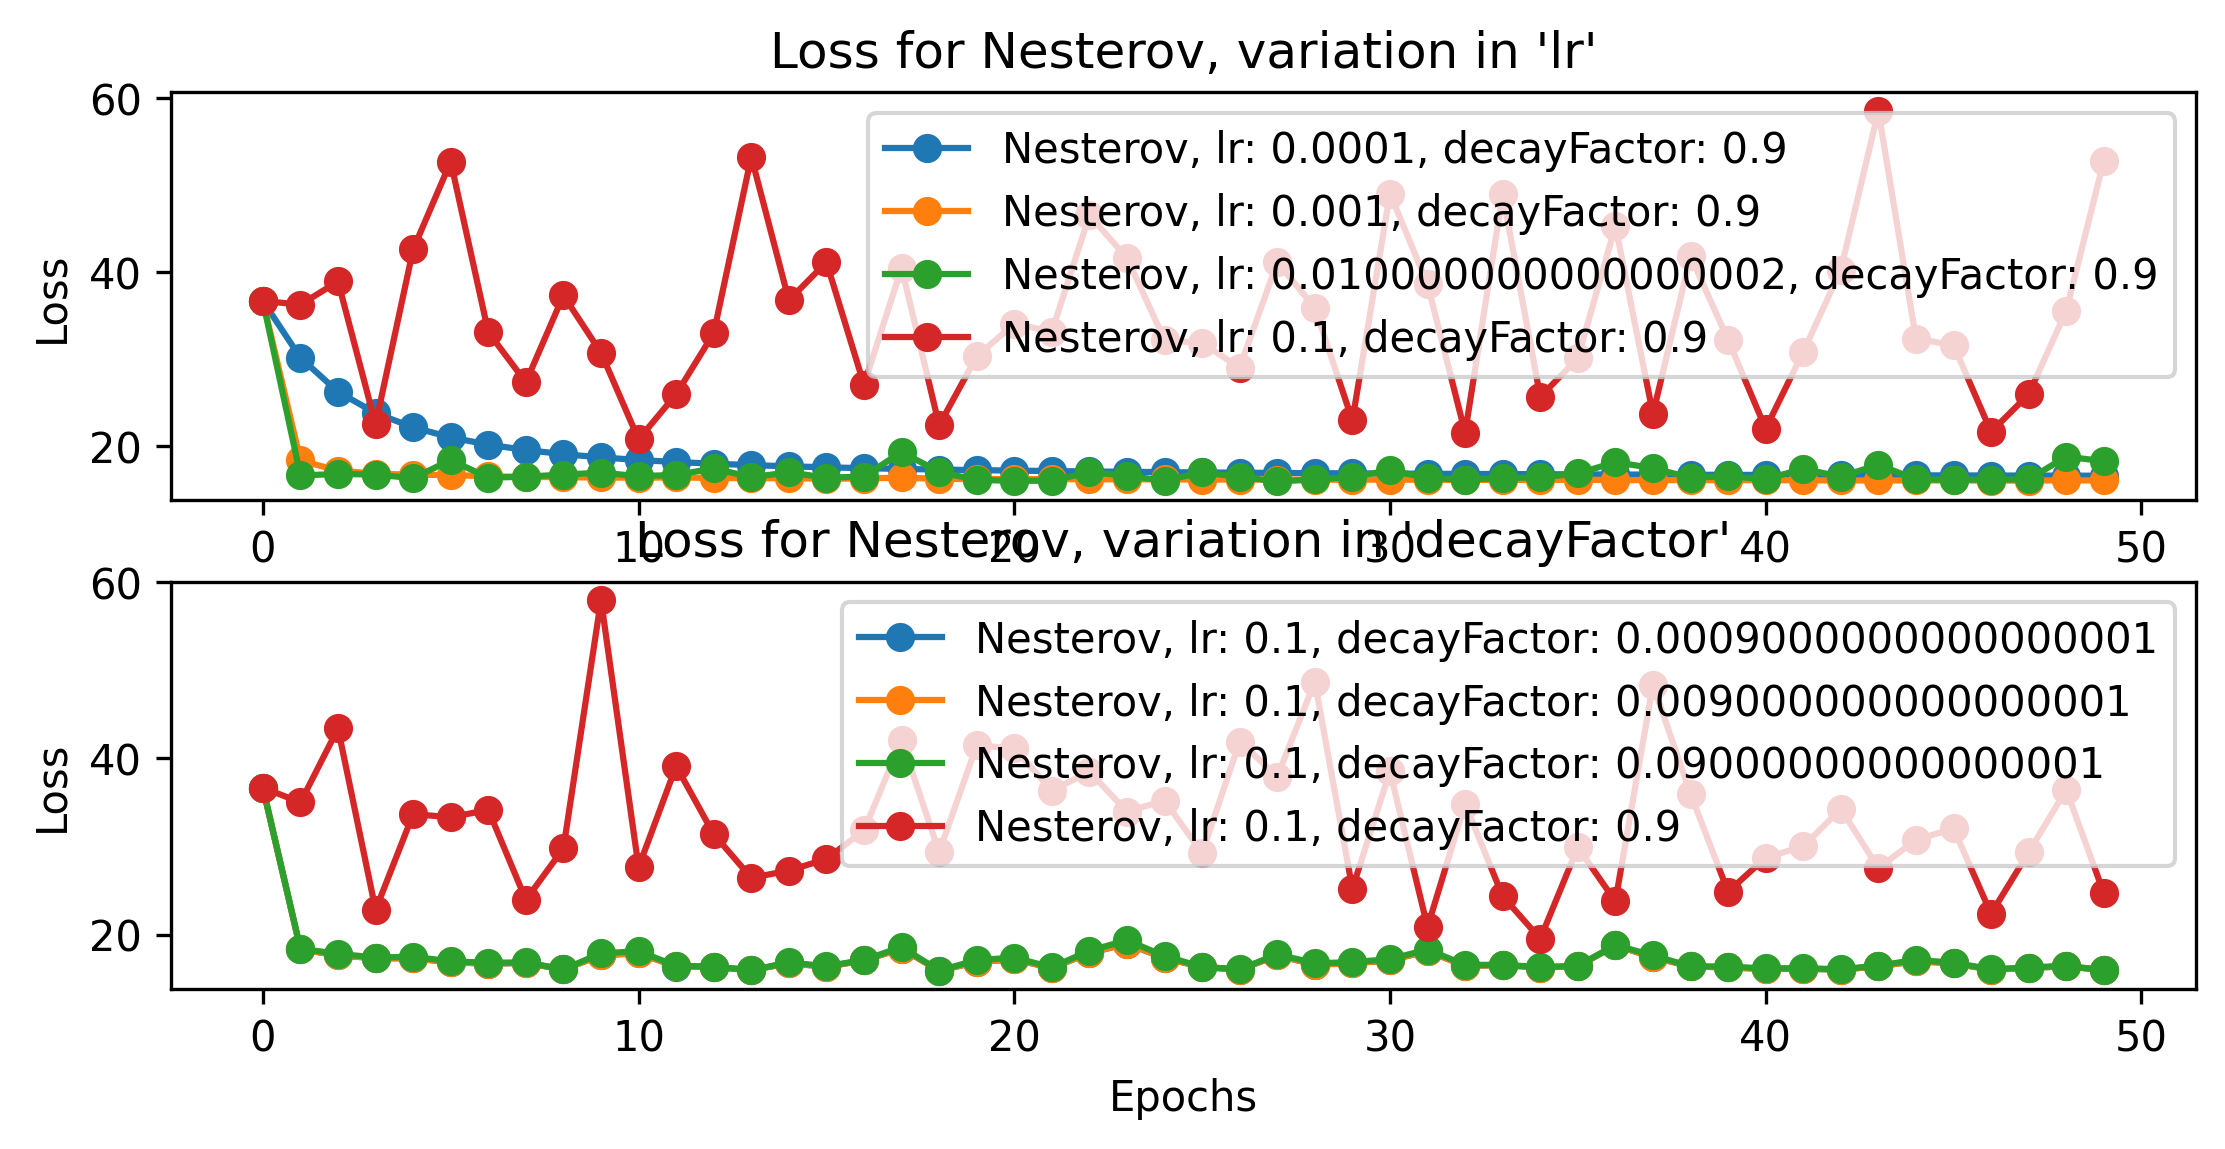
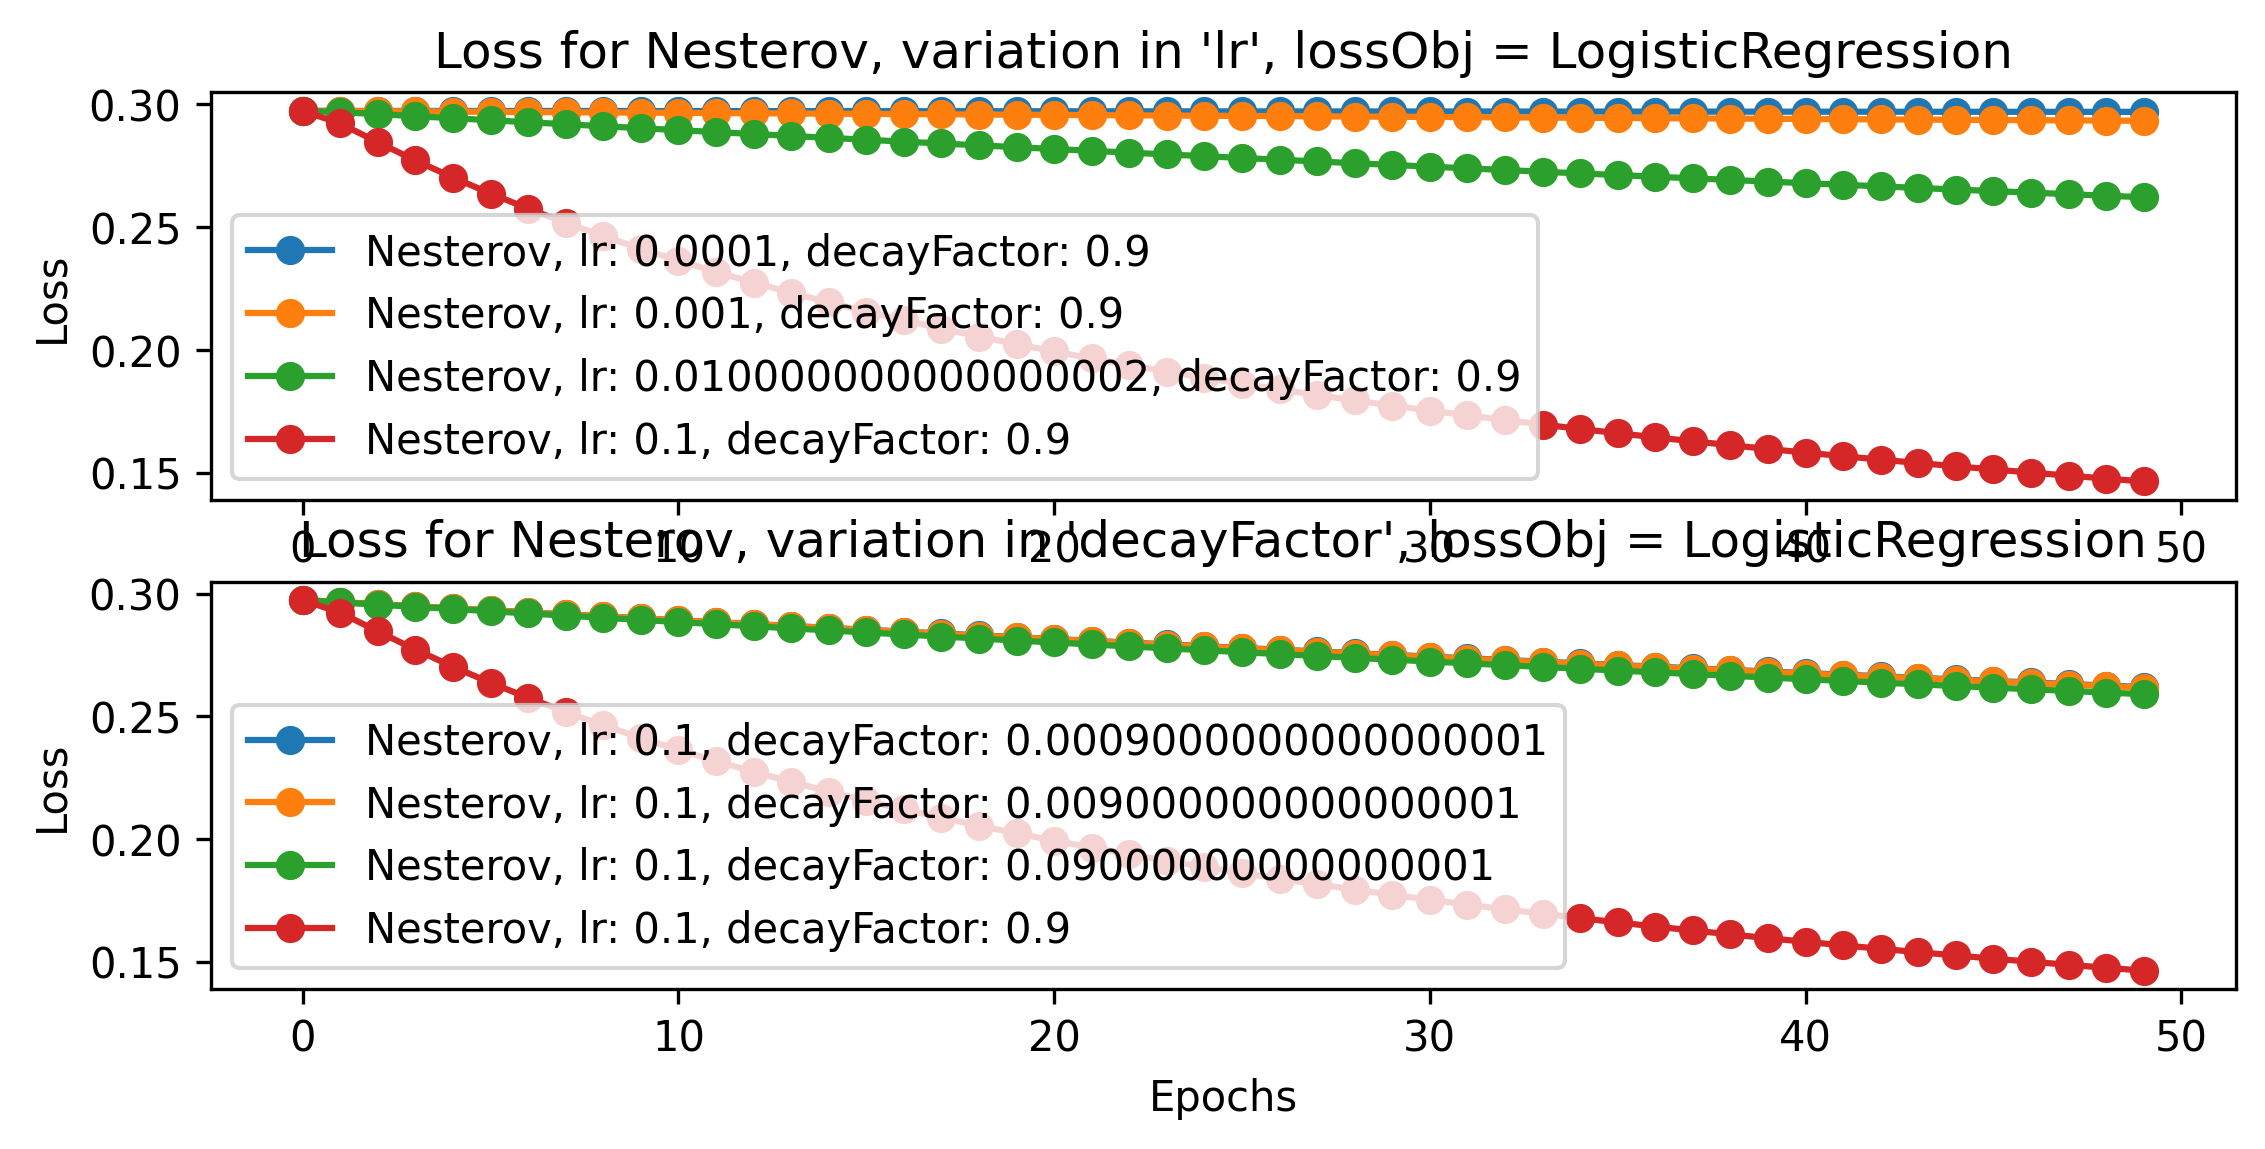
Cleaned up; fixed plotting to be grouped by opt variant; added better print statements; fixed incorrect xDataLength definition and cleaned up some comments in LossObj

diff --git a/testRobustness_new.py b/testRobustness_new.py
@@ -14,66 +14,77 @@ from Rosenbrock import Rosenbrock
 from utils import plotHistoryGraph, train, setupProblem
 from DataLoader import loadDataAsNumpyArray
 
-def testRobustness(listOfOptimizerListBatchVariants, batchSizeTestValues: List[int]):
+def testRobustness(groupedByBatches):
     """
     To test robustness w.r.t. batch sizes, we test the (tuned) optimizers for each batch size. 
     """
-    results = dict()
-    for batchVariant in listOfOptimizerListBatchVariants:
+    for batchVariant in groupedByBatches:
+        print("Testing for batch size: ", batchVariant[0].lossObj.batchSize)
         train(batchVariant)
-        results[batchVariant[0].lossObj.batchSize] = batchVariant
-    return results
-
 
 def setupOptimizerList(lossObjList, initPos):
-    optAdamList = []
     optSGDList = []
-    listOfAllOpt = []
+    optMomentumList = []
+    optNesterovList = []
+    optAdamList = []
+    groupedByOptimizer = [] # for presenting grouped by optimizer
+    groupedByBatches = [] # for training grouped by batch size
 
-    groupedByOptimizer = [] # for presenting
-    groupedByBatches = [] # for training
-    for lossobj in lossObjList:
-        privateSGD = sgd.SGD(lossobj, initPos, lr=0.1)
-        privateAdam = adam.Adam(lossObject=lossobj, initPos=initPos, learningRate=0.1, forgettingFactorM=0.9, forgettingFactorR=0.999)
+    # Create lossObjects
+    for lossObj in lossObjList:
+        privateSGD = sgd.SGD(lossObj, initPos, lr=0.1)
+        privateMomentum = momentum.Momentum(lossObj, initPos, learningRate=0.1, decayFactor=0.9)
+        privateNesterov = nesterov.Nesterov(lossObj, initPos, lr=0.1, decayFactor=0.9)
+        privateAdam = adam.Adam(lossObj, initPos, learningRate=0.1, forgettingFactorM=0.9, forgettingFactorR=0.999)
         
         optSGDList.append(privateSGD)
+        optMomentumList.append(privateMomentum)
+        optNesterovList.append(privateNesterov)
         optAdamList.append(privateAdam)
         
         # All optimizers of same batch size
-        groupedByBatches.append([privateSGD, privateAdam])
+        groupedByBatches.append([privateSGD, privateMomentum, privateNesterov, privateAdam])
 
     # All optimizers of same size
-    groupedByOptimizer.append([optSGDList, optAdamList])
-    listOfAllOpt.extend(optSGDList)
-    listOfAllOpt.extend(optAdamList)
-    return groupedByOptimizer, groupedByBatches, listOfAllOpt
+    groupedByOptimizer.extend([optSGDList, optMomentumList, optNesterovList, optAdamList])
+
+    return groupedByOptimizer, groupedByBatches
 
 def main():
     # Setup lossObj
-    X, y = loadDataAsNumpyArray("datasets/australian_scale")  # rcv1_train.binary or australian_scale
-    batchSizeTestValues = [1, 32, 128, 256]
+    # Load using loadDataAsNumpyArray, because the setupProblem returns lossObj
+    X, y = loadDataAsNumpyArray("datasets/rcv1_train.binary", toDense=False)  # rcv1_train.binary or australian_scale. X and y are sparse matrices, but will be converted to dense in the setupProblem function if 'toDense = True' is set.
+
+    # Batch size values to test, relative to number of samples
+    nrOfSamples = X.shape[0]
+    batchSizeTestValues = [round(factor*nrOfSamples) for factor in [0.1, 0.25, 0.5, 1.0]]
+    
+    # Create lossObj
     lossObjList = []
     for batchSize in batchSizeTestValues:
         lossObjList.append(LogisticRegression(data=[X, y], batchSize=batchSize))
+    print("Loss objects set up for batch sizes: ", batchSizeTestValues)
 
     # Setup base case optimizers
     np.random.seed(10)
     initPos = np.random.uniform(-0.1, 0.1, lossObjList[0].xDataLength)
-    groupedByOptimizer, groupedByBatches, _ = setupOptimizerList(lossObjList=lossObjList, initPos=initPos)
+    groupedByOptimizer, groupedByBatches = setupOptimizerList(lossObjList=lossObjList, initPos=initPos)
+    print("Optimizers set up.")
 
     # Run the test
-    results = testRobustness(groupedByBatches, batchSizeTestValues)
+    print("Starting robustness test...")
+    testRobustness(groupedByBatches)
+    print("Robustness test completed.")
 
     # Present
-    # TODO: Change to plot by optimizer variant
     i = 0
     plt.figure()
-    for batchSize, optimizerListCopies in results.items():
+    for optimizerList in groupedByOptimizer:
         # Plotting: Put all optimizers of the same batch size in the same plot 
         plt.subplot(len(batchSizeTestValues)//2+1, 2, i+1)
         plt.subplots_adjust(left=None, bottom=None, right=None, top=None, wspace=None, hspace=0.9)
-        for optimizer in optimizerListCopies:
-            plotHistoryGraph(optimizer.lossHistory, title = f"Loss history, batchSize = {batchSize}", label=f"{optimizer.__class__.__name__}, {optimizer.getHyperparamStr()}", ylabel="Loss")
+        for optimizer in optimizerList:
+            plotHistoryGraph(optimizer.lossHistory, title = f"Loss history", label=f"{optimizer.__class__.__name__}, {optimizer.getHyperparamStr()}, batchSize = {optimizer.lossObj.batchSize}", ylabel="Loss")
         i += 1
     plt.show()
 

diff --git a/optimizers/loss/loss.py b/optimizers/loss/loss.py
@@ -23,14 +23,10 @@ class LossObj:
         self.xDataLength = 1
         if len(self.data) > 0:
             # Pre-split the data (for calculating loss over the entire dataset)
-            self.X = np.array(self.data[0])
-            self.y = np.array(self.data[1])
-            self.xDataLength = self.X.shape[0] #len(self.X[0])
-            #Ska vara det nedan (för lossobj). Dock så har den ovan definitionen använts på andra ställer så överväg nytt namn på det här
-            #self.xDataLength = len(self.X)
-            #Nytt variabelnamn för den initiella meningen
-            self.xDataListLength = len(self.X)
-
+            self.X = self.data[0]
+            self.y = self.data[1]
+            self.xDataLength = self.X.shape[1] #len(self.X[0]), same thing as 'nr of Features'
+            self.xDataListLength = self.X.shape[0] #len(self.X), same thing as 'nr of data vectors'
 
             # Get the amount of data vectors (X,Y,...)
             self.amountOfDataVectors = len(self.data)
@@ -65,32 +61,19 @@ class LossObj:
         """
         return np.array([])
 
+    def setBatchSize(self, batchSize):
+        """ Set the batch size and update the randomBatchList accordingly. Note that the random batches will be different after this, since the data will be split differently. """
+        if len(self.data) > 0:
+            self.batchSize = batchSize
+            self.numberOfBatches = math.ceil(self.xDataListLength / self.batchSize)
+            self.randomBatchList = [[[None] for _1 in range (self.amountOfDataVectors)] for _ in range(self.numberOfBatches)] #Allocate memory
+            self.fillRandomBatchList() if len(self.data) > 0 else None
+
     def getCurrentBatch(self):
         batch = self.randomBatchList[self.currentBatchIndex]
         X = batch[0] # first element vector is X
         y = batch[1] # second element vector is y
-        return np.array(X), np.array(y)
-
-#Gammal
-    # def fillRandomBatchList(self):
-    #     if len(self.data) > 0:
-    #         self.randomIndexList = np.random.permutation(self.xDataLength)
-    #
-    #         # Shuffles the data in each data vector but keeps related values in appropriate places
-    #         for i in range(self.amountOfDataVectors):
-    #             self.shuffledData[i] = self.data[i][self.randomIndexList]
-    #
-    #         # Fills the randomBatchList with batches from the shuffled data
-    #         # 'i' will increase by batchsize each iteration and 'idx' will increase by 1 each time in the same iteration.
-    #         idx = 0
-    #         for i in range(0, self.xDataLength, self.batchSize):
-    #             for j in range(self.amountOfDataVectors):
-    #                 self.randomBatchList[idx][j] = self.shuffledData[j][i: i + self.batchSize]
-    #             idx = idx + 1
-    #
-    #         self.currentBatchIndex = 0
-    #     return
-    #
+        return X, y
 
     def fillRandomBatchList(self):
         #startTime = default_timer()

diff --git a/testSensitivity_NEW.py b/testSensitivity_NEW.py
@@ -57,9 +57,15 @@ def test_hyperparameter_sensitivity(baseCase: Optimizer, hyperparamConfig = dict
 
 def main():
     # Setup loss object
-    lossObj, initPos = setupProblem("LogReg", datasetFilepath="datasets/australian_scale", randomSeed=10)  # australian_scale, australian, rcv1_train.binary
+    print("Setting up...")
+    lossObj, initPos = setupProblem("LogReg", 
+                                    datasetFilepath = "datasets/rcv1_train.binary", 
+                                    randomSeed = 10, 
+                                    batchSize = 1000,
+                                    toDense = False)  # australian_scale, australian, rcv1_train.binary
     #lossObj, initPos = setupProblem("Rosenbrock", dim=10)
     #lossObj, initPos = setupProblem("QDF")
+    print(f"Data loaded and lossObj created")
 
     # Setup base case optimizers
     optSGD = sgd.SGD(lossObj, initPos, lr=0.1)
@@ -74,15 +80,16 @@ def main():
         (optMomentum, dict()),
         (optAdam, {"learningRate": [0.01, 0.1, 0.78, 1]})
         ]
+    print("Optimizers created")
 
     # Run the test for each optimizer
     for opt, hConfig in optimizerList:
-        print(f" --- {opt.__class__.__name__} --- ")
+        print(f"\n --- Testing {opt.__class__.__name__} --- ")
         results = test_hyperparameter_sensitivity(opt, hyperparamConfig=hConfig, nrEpochs = 50)
 
         # Present
         # TODO: Print quantitative measurements
-        print("...")
+        print("Testing finished!")
 
         # Plotting
         i = 0
@@ -92,7 +99,7 @@ def main():
             plt.subplot(3, 1, i+1)
             plt.subplots_adjust(right=0.8)
             for optVariation in optimizerList:
-                plotHistoryGraph(optVariation.lossHistory, title = f"Loss for {optVariation.__class__.__name__}, variation in '{hyperparamName}'", label=f"{optVariation.__class__.__name__}, {optVariation.getHyperparamStr()}", ylabel="Loss")
+                plotHistoryGraph(optVariation.lossHistory, title = f"Loss for {optVariation.__class__.__name__}, variation in '{hyperparamName}', lossObj = {optVariation.lossObj.__class__.__name__}", label=f"{optVariation.__class__.__name__}, {optVariation.getHyperparamStr()}", ylabel="Loss")
             i += 1
         plt.savefig("images/"+opt.__class__.__name__+"_sensitivity_test.png", dpi=300, bbox_inches = 'tight')
     plt.show()

diff --git a/testRobustness.py b/testRobustness.py
@@ -45,8 +45,10 @@ def testRobustness(optimizerList: List[Optimizer], batchSizeTestValues: List[int
 
 
 def main():
-    lossObj, initPos = setupProblem("LogReg", datasetFilepath="datasets/australian_scaled", randomSeed=10)  # australian_scaled, australian, rcv1_train.binary
-    print(initPos)
+    lossObj, initPos = setupProblem("LogReg", 
+                                    datasetFilepath="datasets/rcv1_train.binary", 
+                                    randomSeed=10)  # australian_scale, australian, rcv1_train.binary
+    print("Initial position: ",initPos)
 
     # Setup base case optimizers
     optSGD = sgd.SGD(lossObj, initPos, lr=0.1)
@@ -54,10 +56,12 @@ def main():
     optMomentum = momentum.Momentum(lossObj, initPos, learningRate=0.1, decayFactor=0.9)
     optAdam = adam.Adam(lossObj, initPos, learningRate=0.5, forgettingFactorM=0.9, forgettingFactorR=0.999)
 
-    # Run the test
-    batchSizeTestValues = [1, 32, 128, 256] # lossObj.xDataListLength for full batch
+    nrOfSamples = lossObj.xDataListLength
+    batchSizeTestValues = [round(factor*nrOfSamples) for factor in [0.1, 0.25, 0.5, 1.0]]
     optimizerList = [optSGD, optNesterov, optMomentum, optAdam]
-    results = testRobustness(optimizerList, batchSizeTestValues, nrEpochs=10)
+
+    # Run the test
+    results = testRobustness(optimizerList, batchSizeTestValues, nrEpochs=25)
 
     # Present
     plotIdx = 1
@@ -69,7 +73,7 @@ def main():
             batchSize = batchSizeTestValues[i] # Want to show batch sizes as well
             plotHistoryGraph(optimizer.lossHistory, title = f"Loss for {optimizer.__class__.__name__}", label=f"{optimizer.__class__.__name__}, batchSize = {batchSize}, {optimizer.getHyperparamStr()}", ylabel="Loss")
         plotIdx += 1
-    plt.savefig("images/all_optimizers_robustness_test.png", dpi=300)   # TODO: Fix legends
+    plt.savefig("images/all_optimizers_robustness_test.png", dpi=300)   # TODO: Fix legends that covers the plot
     plt.show()
 
 if __name__ == "__main__":

diff --git a/DataLoader.py b/DataLoader.py
@@ -7,7 +7,7 @@ from scipy.sparse import csr_matrix
 def loadDataAsNumpyArray(filepath, toDense = True):
     X, y = load_svmlight_file(filepath) # type: ignore - VS Code says it expects 3 values but running says 'expects 2 values'
     X = X.todense() if toDense else X
-    y = np.array(y)
+    y = np.array(y) if toDense else y
     return X, y
 
 if __name__=="__main__":
